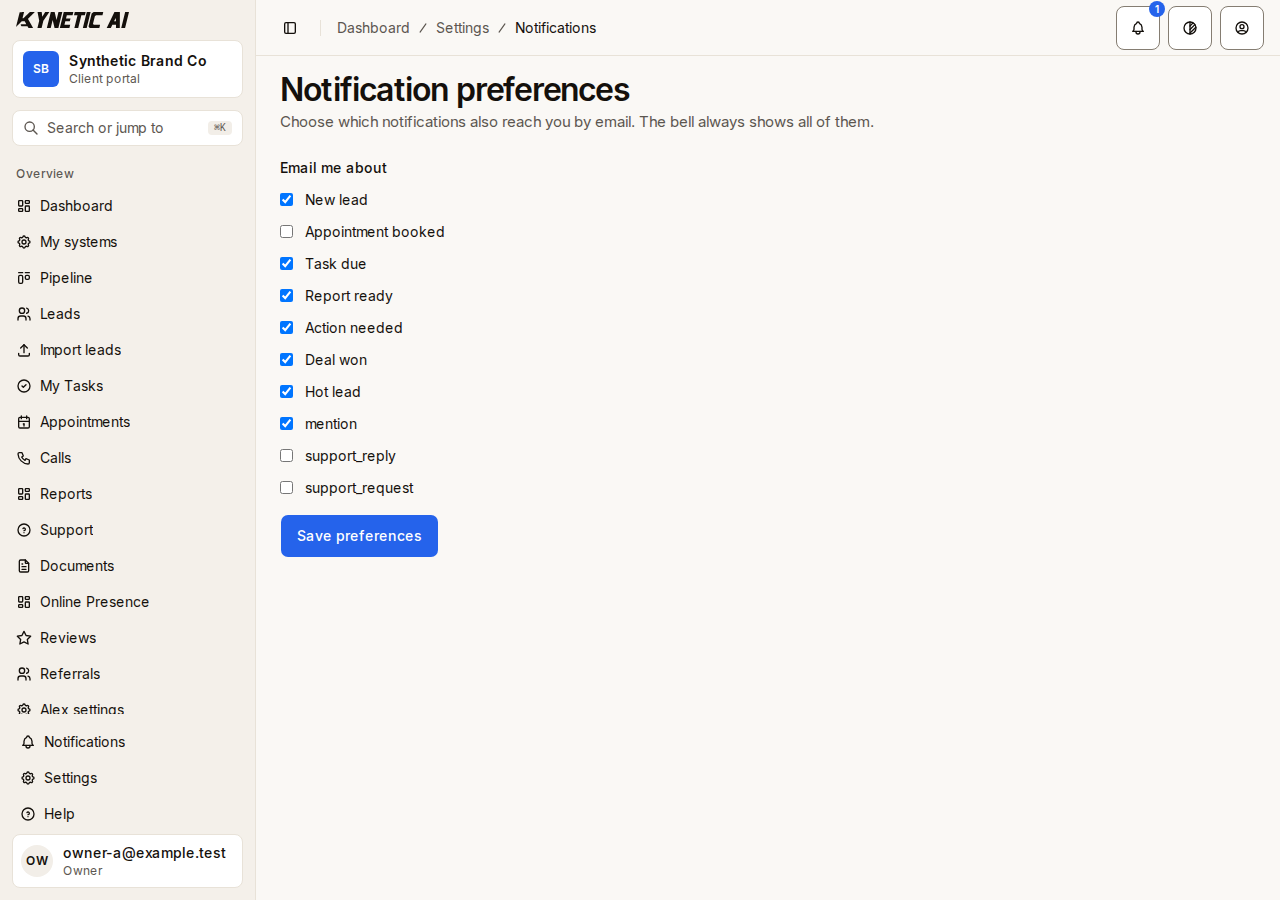
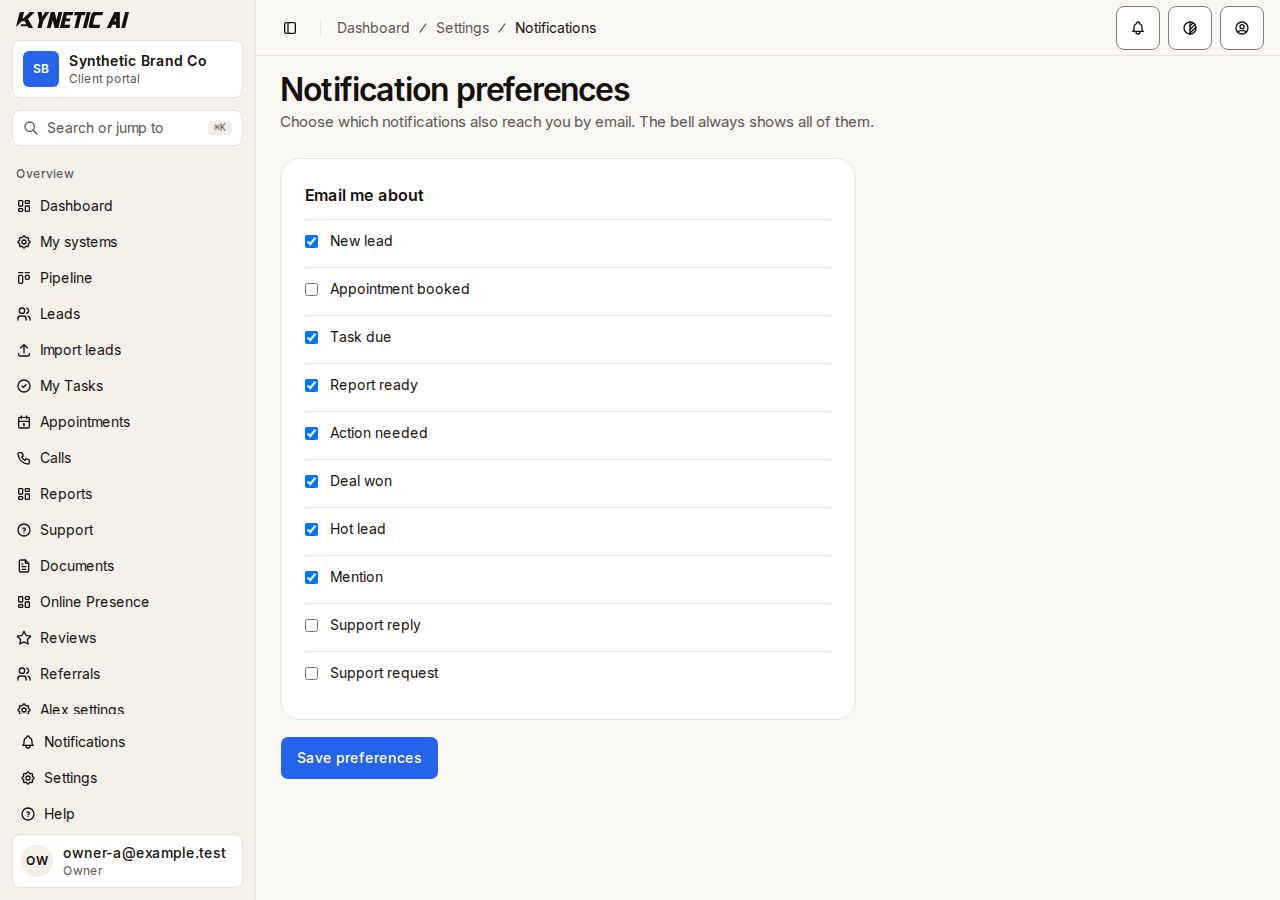
Polish notification preference settings

diff --git a/crm/src/app/dashboard/settings/notifications/preferences-form.tsx b/crm/src/app/dashboard/settings/notifications/preferences-form.tsx
@@ -12,7 +12,10 @@ const LABELS: Record<string, string> = {
   task_due: 'Task due',
   deal_won: 'Deal won',
   report_ready: 'Report ready',
-  action_needed: 'Action needed'
+  action_needed: 'Action needed',
+  mention: 'Mention',
+  support_reply: 'Support reply',
+  support_request: 'Support request'
 };
 
 export function PreferencesForm({ initial }: { initial: Pref[] }) {
@@ -37,11 +40,14 @@ export function PreferencesForm({ initial }: { initial: Pref[] }) {
   }
 
   return (
-    <form onSubmit={save} className='max-w-xl space-y-4'>
-      <fieldset className='space-y-3'>
-        <legend className='text-sm font-medium'>Email me about</legend>
+    <form onSubmit={save} className='w-full max-w-xl space-y-4'>
+      <fieldset className='bg-card space-y-1 rounded-[var(--radius-card)] border p-4 sm:p-6'>
+        <legend className='sr-only'>Email me about</legend>
+        <p className='pb-2 font-semibold' aria-hidden='true'>
+          Email me about
+        </p>
         {prefs.map((p) => (
-          <label key={p.kind} className='flex items-center gap-3 text-sm'>
+          <label key={p.kind} className='flex min-h-11 items-center gap-3 border-t py-2 text-sm'>
             <input
               type='checkbox'
               checked={p.emailEnabled}

diff --git a/crm/tests/e2e/redesign-settings.spec.ts b/crm/tests/e2e/redesign-settings.spec.ts
@@ -85,3 +85,17 @@ test('Unauthenticated visitors cannot open settings', async ({ browser }) => {
   await expect(page).toHaveURL(/sign-in/);
   await context.close();
 });
+
+test('Notification preferences show a save error', async ({ authenticatedPage: page }) => {
+  await page.goto('/dashboard/settings/notifications');
+  await page.route('**/api/settings/notifications', async (route) => {
+    await route.fulfill({
+      status: 500,
+      json: { error: { message: 'Unable to save preferences' } }
+    });
+  });
+  await page.getByRole('button', { name: 'Save preferences' }).click();
+  await expect(
+    page.getByRole('status').filter({ hasText: 'Unable to save preferences' })
+  ).toBeVisible();
+});

diff --git a/docs/coordinator/design-completion.md b/docs/coordinator/design-completion.md
@@ -31,3 +31,5 @@ Local build, typecheck and lint passed; unit suite passed 663 tests on retry aft
 The custom-field row now gives the label a full mobile line. Build, typecheck, lint, 663 unit tests and the four Settings browser checks passed after this change. The updated mobile capture is `docs/redesign/pr-8/after-custom-fields-390.png`; full integration remains in progress.
 
 The Settings browser suite now also checks that an unauthenticated visitor is redirected to sign-in (5/5 passed). A full integration run has reported a backup/restore test timeout and is still running; no integration pass is claimed.
+
+Notification preferences now use a readable card/list and labels for existing notification kinds. Build, typecheck, lint and 663 unit tests passed; Settings browser checks passed 6/6 including a mocked notification save failure. The updated before/after captures are in `docs/redesign/pr-8/`.
